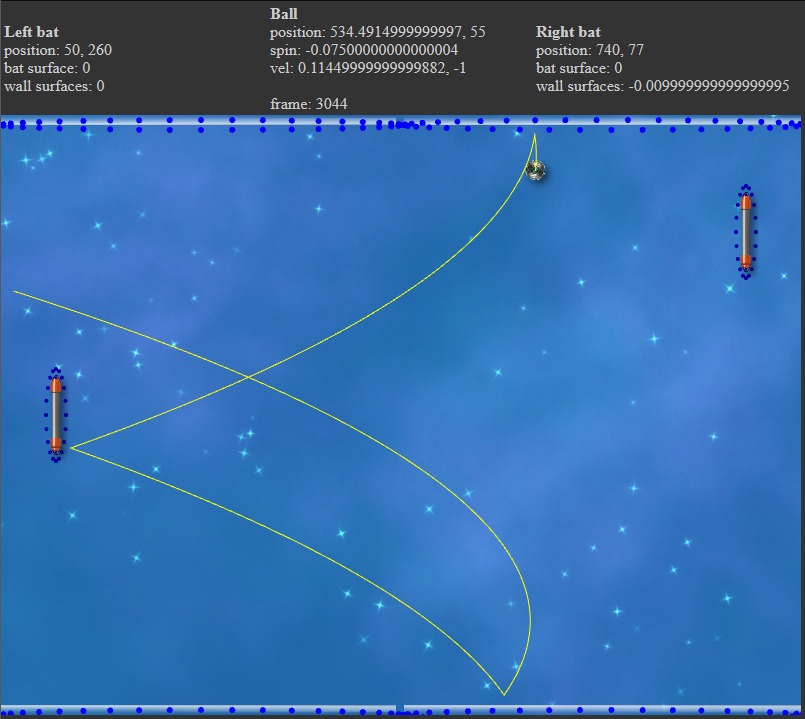
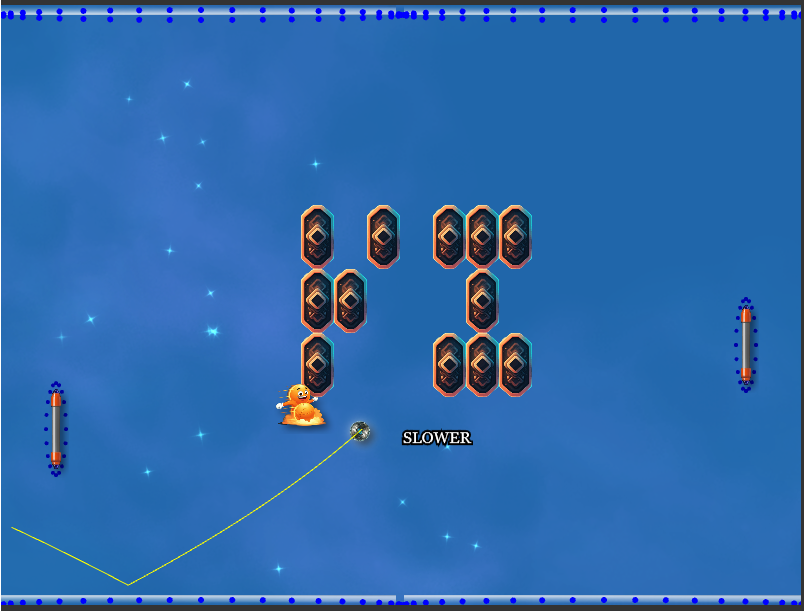
Added speed-decay

diff --git a/src/ball.js b/src/ball.js
@@ -167,6 +167,12 @@ export default class Ball extends Eventable
 
         newSpin -= newSpin * CONFIG.ball.spinDecayPerFrame;
 
+        // Decay velocity if we are above speed of N.
+        if(Math.abs(Math.hypot(this.velocity.x, this.velocity.y)) > 3) {
+            newVelocity.x -= newVelocity.x * CONFIG.ball.velocityDecayPerFrame;
+            newVelocity.y -= newVelocity.y * CONFIG.ball.velocityDecayPerFrame;
+        }
+
         return {
             newVelocity,
             newSpin,

diff --git a/src/main.js b/src/main.js
@@ -207,6 +207,7 @@ class Game
 				position: ${Math.round(this.ball.sprite.x)}, ${Math.round(this.ball.sprite.y)}<br>
 				spin: ${this.ball.spin.toFixed(5)}<br>
 				vel: ${this.ball.velocity.x.toFixed(5)}, ${this.ball.velocity.y.toFixed(5)}<br>
+				speed: ${Math.hypot(this.ball.velocity.x, this.ball.velocity.y).toFixed(2)}
 				<br>
 				frame: ${this.frameCount}<br>
 			</td>

diff --git a/src/config.js b/src/config.js
@@ -9,6 +9,7 @@ const CONFIG = {
         radius: 10, 
         color: 0xffffff, 
         spinDecayPerFrame: 0.02 / 60,   // N % per frame (TODO: Make game run at fixed framerate)
+        velocityDecayPerFrame: 0.02 / 60,
         spinFactor: 0.1,
         initialVel: 4, 
         defaultSpin: -0.4
